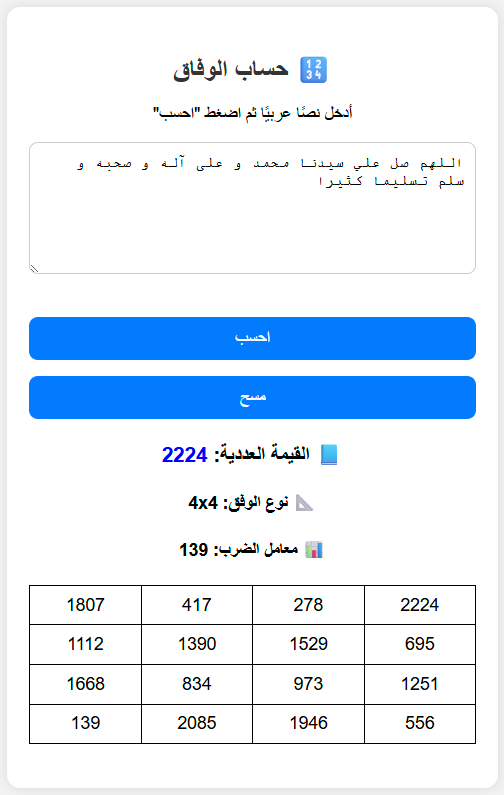
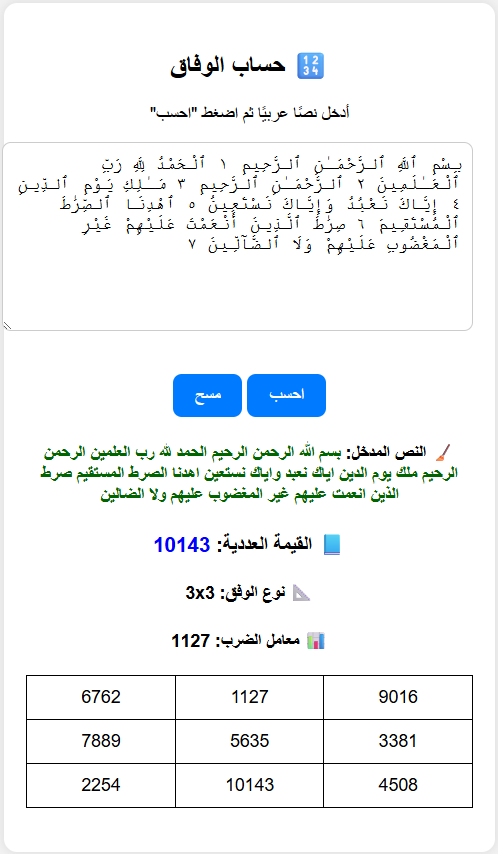
img2

Changed region(s): [[0.0301, 0.3925, 0.9639, 0.966], [0.0301, 0.0604, 0.9639, 0.3321], [0.0, 0.3623, 0.0301, 0.3925]]

diff --git a/run.py b/run.py
@@ -1,7 +1,19 @@
 from flask import Flask, request, render_template_string
+import re
 
 app = Flask(__name__)
 
+# دالة تنظيف النص من الرسم العثماني والتشكيل
+def normalize_arabic_text_for_wifaq(text):
+    text = text.replace("ٱ", "ا").replace("إ", "ا").replace("أ", "ا").replace("آ", "ا")
+    text = text.replace("ٰ", "").replace("ـ", "")
+    tashkeel_pattern = r'[\u0617-\u061A\u064B-\u0652\u0670\u06D6-\u06ED]'
+    text = re.sub(tashkeel_pattern, '', text)
+    text = re.sub(r'[^\u0621-\u064A\s]', '', text)
+    text = re.sub(r'\s+', ' ', text).strip()
+    return text
+
+# القيم الأبجدية
 abjad_values = {
     'ا': 1, 'أ': 1, 'إ': 1, 'آ': 1,
     'ب': 2, 'ج': 3, 'د': 4, 'ه': 5, 'ة': 5,
@@ -16,6 +28,7 @@ abjad_values = {
 def calculate_abjad_value(text):
     return sum(abjad_values.get(char, 0) for char in text)
 
+# توليد المربعات السحرية بأنواعها
 def generate_odd_magic_square(n):
     square = [[0] * n for _ in range(n)]
     num, i, j = 1, 0, n // 2
@@ -80,12 +93,14 @@ def recommend_waffaq_type(value):
 def format_magic_square(square):
     return "\n".join("<tr>" + "".join(f"<td>{val}</td>" for val in row) + "</tr>" for row in square)
 
+# الواجهة الرئيسية
 @app.route("/", methods=["GET", "POST"])
 def index():
     text = request.form.get("text", "")
-    value = size = multiplier = table = None
+    cleaned_text = value = size = multiplier = table = None
     if text:
-        value = calculate_abjad_value(text)
+        cleaned_text = normalize_arabic_text_for_wifaq(text)
+        value = calculate_abjad_value(cleaned_text)
         size, multiplier, square = recommend_waffaq_type(value)
         table = format_magic_square(square) if square else None
     return render_template_string('''
@@ -96,19 +111,14 @@ def index():
   <meta name="viewport" content="width=device-width, initial-scale=1.0">
   <title>Waffaq - توليد الوفق</title>
   <style>
-    * {
-      box-sizing: border-box;
-    }
-
     body {
       font-family: 'Arial', sans-serif;
       margin: 0;
       padding: 20px;
       background-color: #f2f2f2;
-      text-align: center;
       direction: rtl;
+      text-align: center;
     }
-
     .container {
       max-width: 800px;
       margin: auto;
@@ -117,12 +127,6 @@ def index():
       border-radius: 12px;
       box-shadow: 0 0 10px rgba(0,0,0,0.1);
     }
-
-    h2 {
-      color: #333;
-      margin-bottom: 10px;
-    }
-
     textarea {
       width: 100%;
       height: 150px;
@@ -132,7 +136,6 @@ def index():
       border: 1px solid #ccc;
       resize: vertical;
     }
-
     button {
       margin-top: 15px;
       padding: 10px 20px;
@@ -143,39 +146,23 @@ def index():
       border-radius: 8px;
       cursor: pointer;
     }
-
     button:hover {
       background-color: #0056b3;
     }
-
     table {
       margin: 20px auto;
       border-collapse: collapse;
       width: 100%;
       max-width: 500px;
     }
-
     td {
       border: 1px solid #000;
       padding: 10px;
       width: 50px;
       text-align: center;
     }
-
-    @media (max-width: 600px) {
-      td {
-        padding: 8px;
-        width: 40px;
-      }
-
-      textarea {
-        height: 120px;
-        font-size: 14px;
-      }
-
-      button {
-        width: 100%;
-      }
+    h4 span {
+      font-weight: bold;
     }
   </style>
 </head>
@@ -183,15 +170,17 @@ def index():
   <div class="container">
     <h2>🔢 حساب الوفاق</h2>
     <p>أدخل نصًا عربيًا ثم اضغط "احسب"</p>
-<form method="post">
-  <textarea name="text">{{ text or "" }}</textarea><br><br>
-  <div class="button-group">
-    <button type="submit">احسب</button>
-    <button type="button" onclick="window.location.href='/'">مسح</button>
-  </div>
-</form>
+    <form method="post">
+      <textarea name="text">{{ text or "" }}</textarea><br><br>
+      <div class="button-group">
+        <button type="submit">احسب</button>
+        <button type="button" onclick="window.location.href='/'">مسح</button>
+      </div>
+    </form>
 
-
+    {% if cleaned_text %}
+      <h4>🧹 النص المدخل: <span style="color:darkgreen;">{{ cleaned_text }}</span></h4>
+    {% endif %}
 
     {% if value %}
       <h3>📘 القيمة العددية: <span style="color:blue;">{{ value }}</span></h3>
@@ -199,13 +188,14 @@ def index():
         <h4>📐 نوع الوفق: {{ size }}x{{ size }}</h4>
         <h4>📊 معامل الضرب: {{ multiplier }}</h4>
         <table>{{ table|safe }}</table>
+      {% else %}
+        <p>⚠ لا يوجد وفق مناسب لهذه القيمة.</p>
       {% endif %}
     {% endif %}
   </div>
 </body>
 </html>
-''', text=text, value=value, size=size, multiplier=multiplier, table=table)
-
+''', text=text, cleaned_text=cleaned_text, value=value, size=size, multiplier=multiplier, table=table)
 
 if __name__ == "__main__":
     app.run(host="0.0.0.0", port=1010, debug=True)
